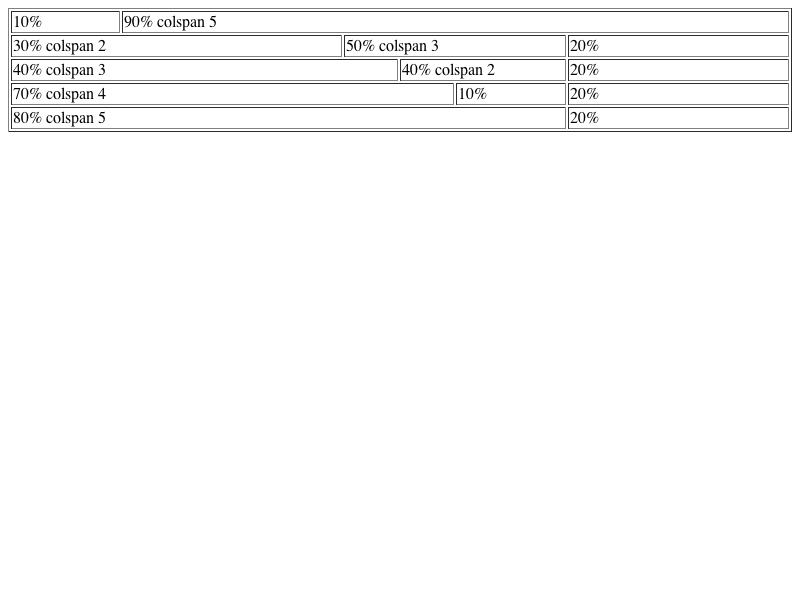
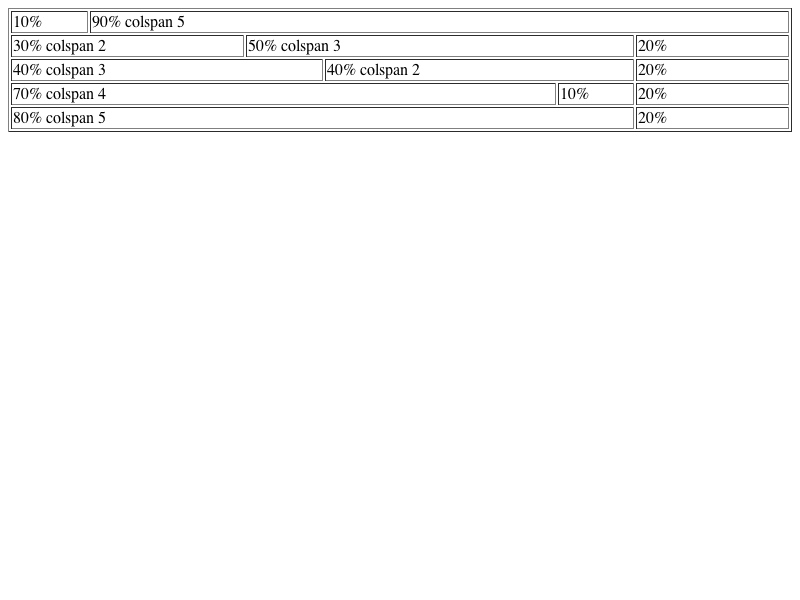
LayoutTests:
Reviewed by Darin.

        - updated results for http://bugs.webkit.org/show_bug.cgi?id=12777
          REGRESSION (r18574): User profile pages display incorrectly at ebay.ca

        * tables/mozilla/bugs/bug45486-expected.checksum:
        * tables/mozilla/bugs/bug45486-expected.png:
        * tables/mozilla/bugs/bug45486-expected.txt:
        * tables/mozilla_expected_failures/core/col_span2-expected.txt:

WebCore:

        Reviewed by Darin.

        - http://bugs.webkit.org/show_bug.cgi?id=12777
          REGRESSION (r18574): User profile pages display incorrectly at ebay.ca

        Fixes existing layout tests: tables/mozilla/bugs/bug45486.html
                                     tables/mozilla_expected_failures/core/col_span2.html

        * rendering/AutoTableLayout.cpp:
        (WebCore::AutoTableLayout::calcEffectiveWidth): Fixed a mismatch between which
        columns count as percentage columns when adding up the total percent and
        which columns count as percentage columns when converting non-percentage
        columns to effectively-percentage.

Identifier: 16516@main
git-svn-id: https://svn.webkit.org/repository/webkit/trunk@19641 268f45cc-cd09-0410-ab3c-d52691b4dbfc

diff --git a/WebCore/rendering/AutoTableLayout.cpp b/WebCore/rendering/AutoTableLayout.cpp
@@ -328,9 +328,6 @@ int AutoTableLayout::calcEffectiveWidth()
         bool allColsAreFixed = true;
         bool haveAuto = false;
         int fixedWidth = 0;
-#ifdef DEBUG_LAYOUT
-        int cSpan = span;
-#endif
         while (lastCol < nEffCols && span > 0) {
             switch (m_layoutStruct[lastCol].width.type()) {
             case Percent:
@@ -372,9 +369,6 @@ int AutoTableLayout::calcEffectiveWidth()
             cMinWidth -= hspacing;
             cMaxWidth -= hspacing;
         }
-#ifdef DEBUG_LAYOUT
-        qDebug("    colspan cell %p at effCol %d, span %d, type %d, value %d cmin=%d min=%d fixedwidth=%d", cell, col, cSpan, w.type, w.value, cMinWidth, minWidth, fixedWidth);
-#endif
 
         // adjust table max width if needed
         if (w.isPercent()) {
@@ -383,25 +377,19 @@ int AutoTableLayout::calcEffectiveWidth()
                 w = Length();
             } else {
                 int spanMax = max(maxWidth, cMaxWidth);
-#ifdef DEBUG_LAYOUT
-                qDebug("    adjusting tMaxWidth (%d): spanMax=%d, value=%d, totalPercent=%d", tMaxWidth, spanMax, w.value, totalPercent);
-#endif
                 tMaxWidth = max(tMaxWidth, spanMax * 100 * percentScaleFactor / w.rawValue());
 
                 // all non percent columns in the span get percent vlaues to sum up correctly.
                 int percentMissing = w.rawValue() - totalPercent;
                 int totalWidth = 0;
                 for (unsigned int pos = col; pos < lastCol; pos++) {
-                    if (!(m_layoutStruct[pos].width.isPercent()))
+                    if (!(m_layoutStruct[pos].effWidth.isPercent()))
                         totalWidth += m_layoutStruct[pos].effMaxWidth;
                 }
 
                 for (unsigned int pos = col; pos < lastCol && totalWidth > 0; pos++) {
-                    if (!(m_layoutStruct[pos].width.isPercent())) {
+                    if (!(m_layoutStruct[pos].effWidth.isPercent())) {
                         int percent = percentMissing * m_layoutStruct[pos].effMaxWidth / totalWidth;
-#ifdef DEBUG_LAYOUT
-                        qDebug("   col %d: setting percent value %d effMaxWidth=%d totalWidth=%d", pos, percent, m_layoutStruct[pos].effMaxWidth, totalWidth);
-#endif
                         totalWidth -= m_layoutStruct[pos].effMaxWidth;
                         percentMissing -= percent;
                         if (percent > 0)
@@ -417,23 +405,14 @@ int AutoTableLayout::calcEffectiveWidth()
         // make sure minWidth and maxWidth of the spanning cell are honoured
         if (cMinWidth > minWidth) {
             if (allColsAreFixed) {
-#ifdef DEBUG_LAYOUT
-                qDebug("extending minWidth of cols %d-%d to %dpx currentMin=%d accroding to fixed sum %d", col, lastCol-1, cMinWidth, minWidth, fixedWidth);
-#endif
                 for (unsigned int pos = col; fixedWidth > 0 && pos < lastCol; pos++) {
                     int w = max(m_layoutStruct[pos].effMinWidth, cMinWidth * m_layoutStruct[pos].width.value() / fixedWidth);
-#ifdef DEBUG_LAYOUT
-                    qDebug("   col %d: min=%d, effMin=%d, new=%d", pos, m_layoutStruct[pos].effMinWidth, m_layoutStruct[pos].effMinWidth, w);
-#endif
                     fixedWidth -= m_layoutStruct[pos].width.value();
                     cMinWidth -= w;
                     m_layoutStruct[pos].effMinWidth = w;
                 }
 
             } else {
-#ifdef DEBUG_LAYOUT
-                qDebug("extending minWidth of cols %d-%d to %dpx currentMin=%d", col, lastCol-1, cMinWidth, minWidth);
-#endif
                 int maxw = maxWidth;
                 int minw = minWidth;
                 
@@ -443,9 +422,6 @@ int AutoTableLayout::calcEffectiveWidth()
                         int w = max(m_layoutStruct[pos].effMinWidth, m_layoutStruct[pos].width.value());
                         fixedWidth -= m_layoutStruct[pos].width.value();
                         minw -= m_layoutStruct[pos].effMinWidth;
-#ifdef DEBUG_LAYOUT
-                        qDebug("   col %d: min=%d, effMin=%d, new=%d", pos, m_layoutStruct[pos].effMinWidth, m_layoutStruct[pos].effMinWidth, w);
-#endif
                         maxw -= m_layoutStruct[pos].effMaxWidth;
                         cMinWidth -= w;
                         m_layoutStruct[pos].effMinWidth = w;
@@ -457,9 +433,6 @@ int AutoTableLayout::calcEffectiveWidth()
                         int w = max(m_layoutStruct[pos].effMinWidth, maxw ? (cMinWidth * m_layoutStruct[pos].effMaxWidth / maxw) : cMinWidth);
                         w = min(m_layoutStruct[pos].effMinWidth+(cMinWidth-minw), w);
                                                 
-#ifdef DEBUG_LAYOUT
-                        qDebug("   col %d: min=%d, effMin=%d, new=%d", pos, m_layoutStruct[pos].effMinWidth, m_layoutStruct[pos].effMinWidth, w);
-#endif
                         maxw -= m_layoutStruct[pos].effMaxWidth;
                         minw -= m_layoutStruct[pos].effMinWidth;
                         cMinWidth -= w;
@@ -470,14 +443,8 @@ int AutoTableLayout::calcEffectiveWidth()
         }
         if (!(w.isPercent())) {
             if (cMaxWidth > maxWidth) {
-#ifdef DEBUG_LAYOUT
-                qDebug("extending maxWidth of cols %d-%d to %dpx", col, lastCol-1, cMaxWidth);
-#endif
                 for (unsigned int pos = col; maxWidth >= 0 && pos < lastCol; pos++) {
                     int w = max(m_layoutStruct[pos].effMaxWidth, maxWidth ? (cMaxWidth * m_layoutStruct[pos].effMaxWidth / maxWidth) : cMaxWidth);
-#ifdef DEBUG_LAYOUT
-                    qDebug("   col %d: max=%d, effMax=%d, new=%d", pos, m_layoutStruct[pos].effMaxWidth, m_layoutStruct[pos].effMaxWidth, w);
-#endif
                     maxWidth -= m_layoutStruct[pos].effMaxWidth;
                     cMaxWidth -= w;
                     m_layoutStruct[pos].effMaxWidth = w;
